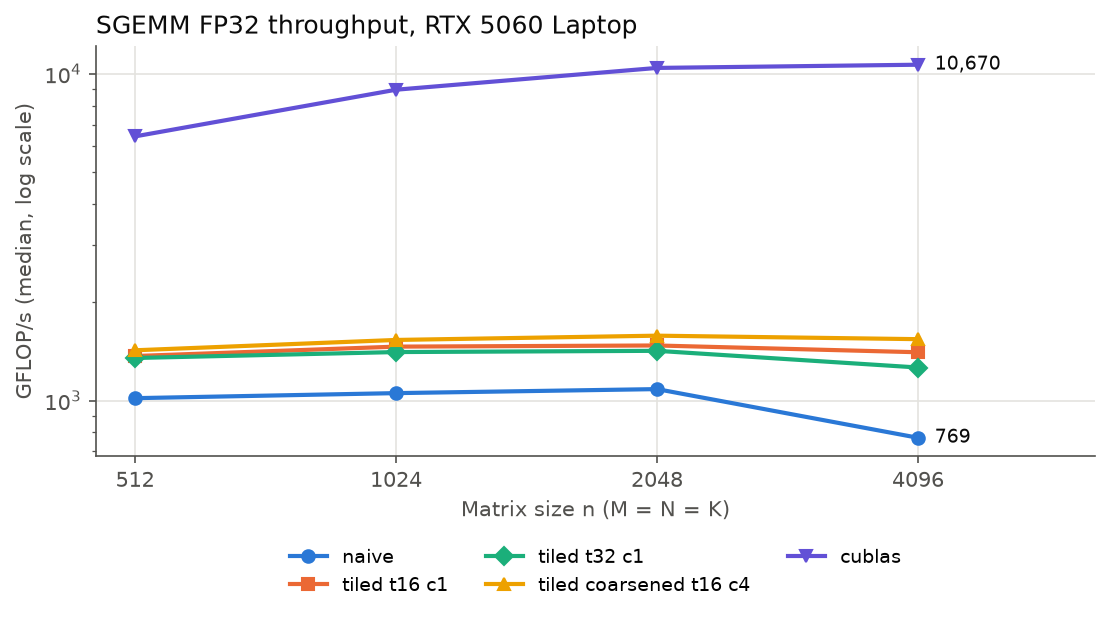
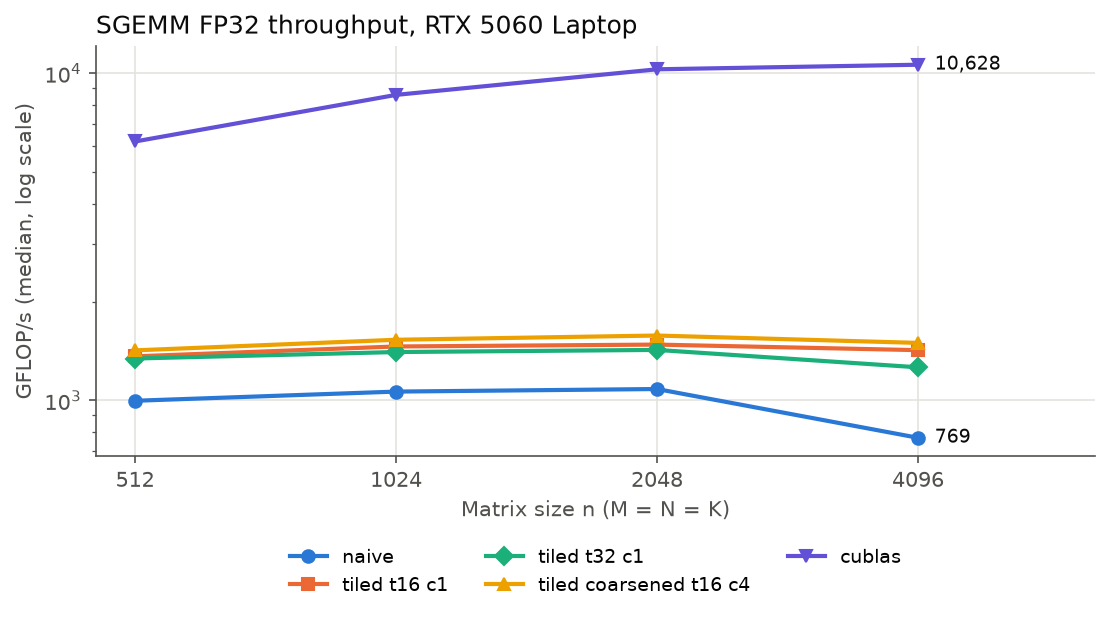
results: matmul sweep (performance mode, AC)

diff --git a/results/matmul_table.md b/results/matmul_table.md
@@ -2,11 +2,11 @@
 
 | Kernel | n = 512 | n = 1024 | n = 2048 | n = 4096 |
 |---|---|---|---|---|
-| `naive` | 1,017 GFLOP/s (16 %) | 1,054 GFLOP/s (12 %) | 1,084 GFLOP/s (10 %) | 769 GFLOP/s (7 %) |
-| `tiled t16 c1` | 1,369 GFLOP/s (21 %) | 1,463 GFLOP/s (16 %) | 1,475 GFLOP/s (14 %) | 1,406 GFLOP/s (13 %) |
-| `tiled t32 c1` | 1,350 GFLOP/s (21 %) | 1,408 GFLOP/s (16 %) | 1,420 GFLOP/s (14 %) | 1,262 GFLOP/s (12 %) |
-| `tiled coarsened t16 c4` | 1,426 GFLOP/s (22 %) | 1,533 GFLOP/s (17 %) | 1,580 GFLOP/s (15 %) | 1,542 GFLOP/s (14 %) |
-| `cublas` | 6,438 GFLOP/s (100 %) | 8,947 GFLOP/s (100 %) | 10,432 GFLOP/s (100 %) | 10,670 GFLOP/s (100 %) |
+| `naive` | 998 GFLOP/s (16 %) | 1,065 GFLOP/s (12 %) | 1,084 GFLOP/s (11 %) | 769 GFLOP/s (7 %) |
+| `tiled t16 c1` | 1,364 GFLOP/s (22 %) | 1,463 GFLOP/s (17 %) | 1,482 GFLOP/s (14 %) | 1,425 GFLOP/s (13 %) |
+| `tiled t32 c1` | 1,344 GFLOP/s (22 %) | 1,406 GFLOP/s (16 %) | 1,428 GFLOP/s (14 %) | 1,263 GFLOP/s (12 %) |
+| `tiled coarsened t16 c4` | 1,423 GFLOP/s (23 %) | 1,533 GFLOP/s (18 %) | 1,580 GFLOP/s (15 %) | 1,500 GFLOP/s (14 %) |
+| `cublas` | 6,191 GFLOP/s (100 %) | 8,595 GFLOP/s (100 %) | 10,291 GFLOP/s (100 %) | 10,628 GFLOP/s (100 %) |
 
 _Percentages are relative to cuBLAS at the same size._
 
@@ -14,7 +14,7 @@ _Percentages are relative to cuBLAS at the same size._
 
 | Tile \ coarse | 1 | 2 | 4 |
 |---|---|---|---|
-| 16 | 1,474 (14.1 %) | 1,544 (14.8 %) | 1,580 (15.1 %) |
-| 32 | 1,420 (13.6 %) | 1,474 (14.1 %) | 1,478 (14.2 %) |
+| 16 | 1,474 (14.3 %) | 1,544 (15.0 %) | 1,580 (15.4 %) |
+| 32 | 1,420 (13.8 %) | 1,474 (14.3 %) | 1,478 (14.4 %) |
 
-_Runs with stddev > 2 % of the median:_ `naive` n=512 (2.5 %), `tiled t16 c1` n=512 (3.0 %), `tiled t16 c1` n=4096 (6.0 %), `tiled coarsened t16 c1` n=512 (4.0 %), `tiled coarsened t16 c1` n=4096 (6.0 %), `tiled coarsened t16 c2` n=512 (3.5 %), `tiled coarsened t16 c2` n=4096 (5.2 %), `tiled coarsened t16 c4` n=512 (2.3 %), `tiled coarsened t16 c4` n=4096 (4.7 %), `tiled coarsened t32 c2` n=512 (5.5 %), `tiled coarsened t32 c4` n=512 (5.0 %), `cublas` n=512 (20.4 %), `cublas` n=1024 (3.7 %)
+_Runs with stddev > 2 % of the median:_ `naive` n=512 (3.9 %), `tiled t16 c1` n=512 (13.6 %), `tiled t16 c1` n=4096 (4.6 %), `tiled coarsened t16 c1` n=4096 (4.8 %), `tiled coarsened t16 c2` n=4096 (6.3 %), `tiled coarsened t16 c4` n=512 (3.8 %), `tiled coarsened t16 c4` n=4096 (4.4 %), `tiled coarsened t32 c1` n=512 (6.3 %), `tiled coarsened t32 c2` n=512 (5.7 %), `cublas` n=512 (14.3 %), `cublas` n=1024 (5.3 %), `cublas` n=4096 (2.6 %)
